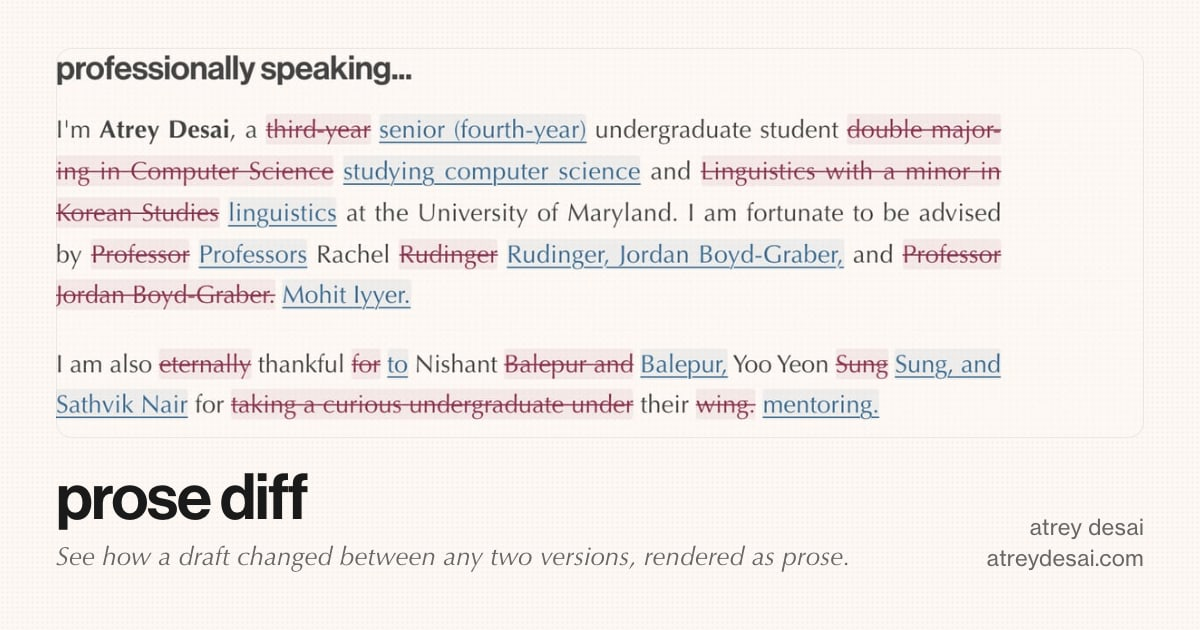
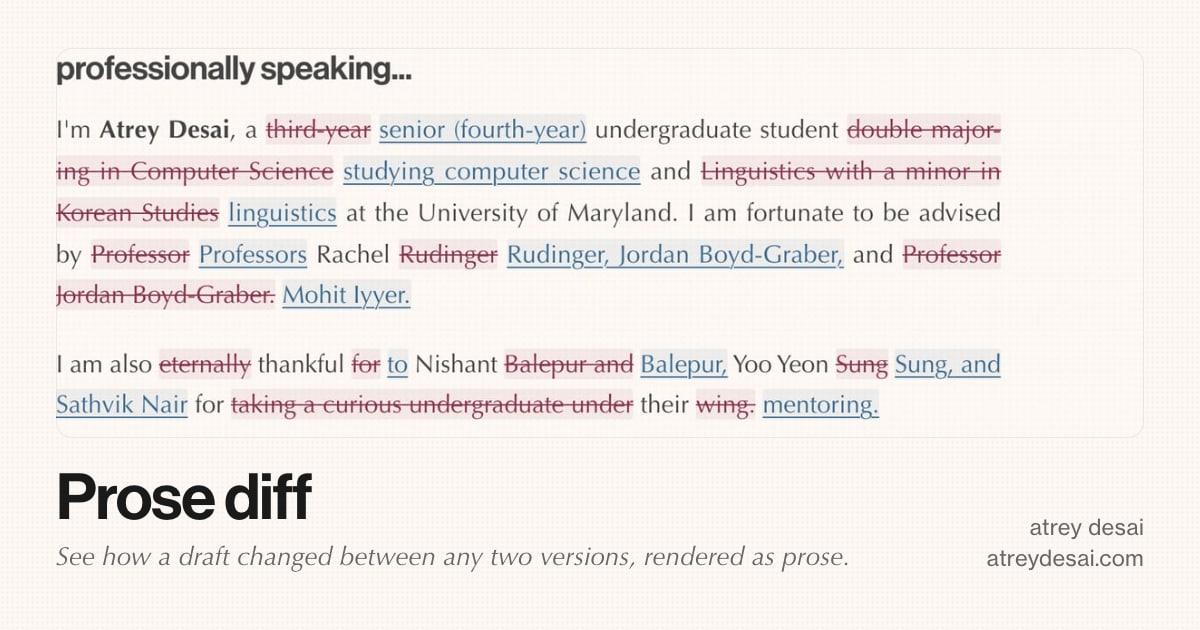
Capitalize the prose diff, making fruit, and wallpapers titles
Matches the other posts' sentence case on the blog, the posts, their SEO
titles and share-card alt text, the homepage updates log, and the share
cards themselves, which are regenerated over their existing art.

Changed region(s): [[0.0308, 0.754, 0.2775, 0.8444]]

diff --git a/src/content/posts/prose-diff.md b/src/content/posts/prose-diff.md
@@ -1,13 +1,13 @@
 ---
 id: prose-diff
-title: "prose diff"
+title: "Prose diff"
 date: "2026-10-09"
 tags: [writing, autofiction, tools]
 excerpt: "See how a draft changed between any two versions, rendered as prose."
 published: true
-seoTitle: "prose diff: compare two drafts of long-form writing as prose"
+seoTitle: "Prose diff: compare two drafts of long-form writing as prose"
 seoDescription: "A diff viewer for writers. Paste two drafts or drop in a folder of versions, then step through every change with n and p, marked up in the prose itself rather than as lines of code."
-imageAlt: "A paragraph with deleted words struck through in red and inserted words underlined in blue, above the title prose diff."
+imageAlt: "A paragraph with deleted words struck through in red and inserted words underlined in blue, above the title Prose diff."
 image: "/images/og/prose-diff.jpg"
 ---
 

diff --git a/src/content/posts/fruit-studies.md b/src/content/posts/fruit-studies.md
@@ -1,13 +1,13 @@
 ---
 id: fruit-studies
-title: "making fruit"
+title: "Making fruit"
 date: "2026-09-10"
 tags: [fun, graphics, experiments]
 excerpt: "A whole variety of fruits, with a few added effects."
 published: true
-seoTitle: "making fruit: nine pointillist fruits you can light and ripple"
+seoTitle: "Making fruit: nine pointillist fruits you can light and ripple"
 seoDescription: "An interactive study of nine fruits, persimmon to banana, each built from a few thousand pigment marks. Move the cursor to light them and drag to ripple the paint."
-imageAlt: "A persimmon drawn from thousands of orange, red, and violet pigment dots on a pale green ground, above the title making fruit."
+imageAlt: "A persimmon drawn from thousands of orange, red, and violet pigment dots on a pale green ground, above the title Making fruit."
 image: "/images/og/fruit-studies.jpg"
 ---
 

diff --git a/src/content/posts/shader-wallpapers.md b/src/content/posts/shader-wallpapers.md
@@ -1,13 +1,13 @@
 ---
 id: shader-wallpapers
-title: "wallpapers"
+title: "Wallpapers"
 date: "2026-04-18"
 tags: [fun, graphics, experiments]
 excerpt: "Playing around with shaders"
 published: true
-seoTitle: "wallpapers: two shader backgrounds from a shader beginner"
+seoTitle: "Wallpapers: two shader backgrounds from a shader beginner"
 seoDescription: "Mound and Nebula, two animated grain-and-gradient wallpapers made while trying to recreate a shader from Twitter. Both run live in the post."
-imageAlt: "A grainy gradient wallpaper fading from gold through pink to violet, above the title wallpapers."
+imageAlt: "A grainy gradient wallpaper fading from gold through pink to violet, above the title Wallpapers."
 image: "/images/og/shader-wallpapers.jpg"
 ---
 
